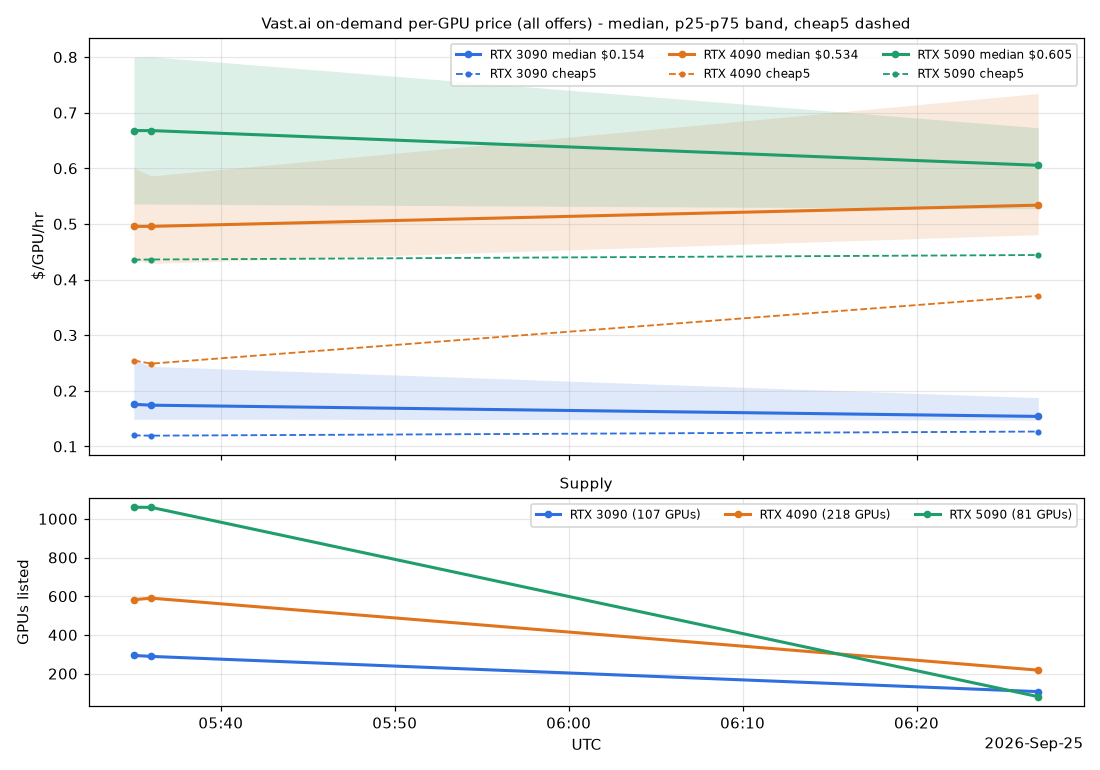
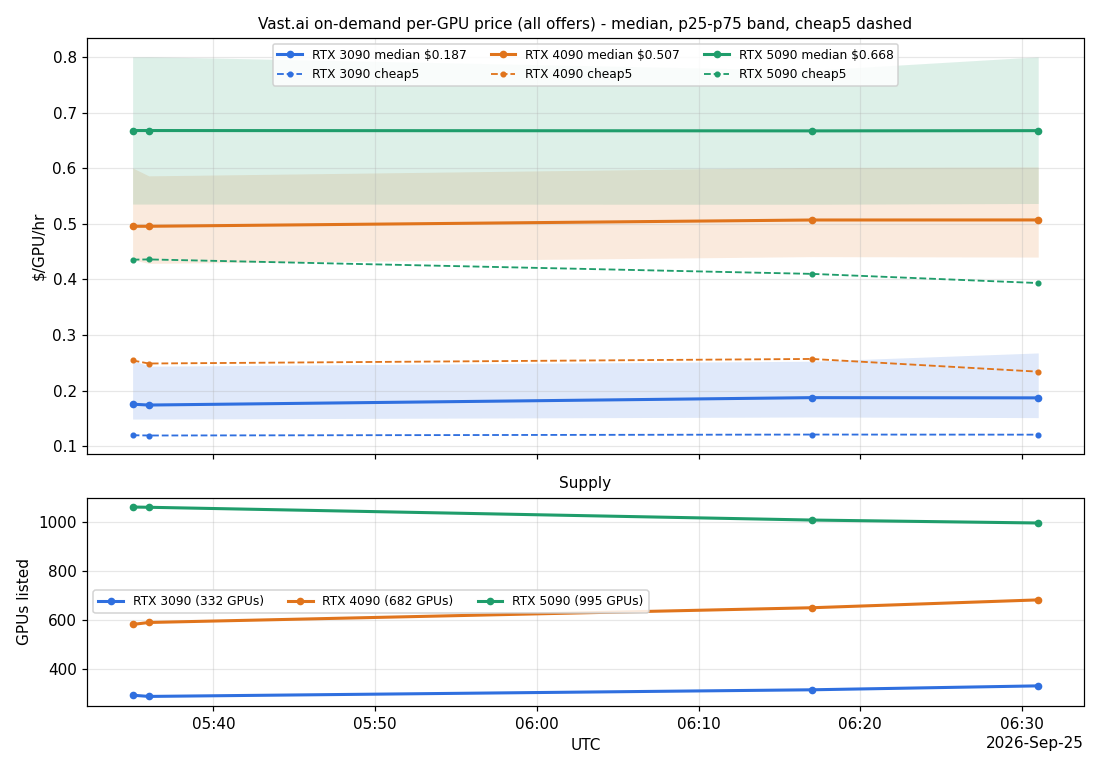
collector: use restricted API key; drop capped 06:27Z run

diff --git a/chart.html b/chart.html
@@ -71,7 +71,7 @@ h1 { font-size: 18px; margin: 4px 0 2px; }
     <div class="supply"><canvas id="supply"></canvas></div></div>
 </main>
 <script>
-const DATA = {"all":{"RTX 3090":[[1790314500000,0.1756,0.1489,0.2548,0.1198,294.0,149.0],[1790314560000,0.1741,0.1489,0.2439,0.1193,289.0,148.0],[1790317620000,0.1539,0.1474,0.1876,0.1267,107.0,64.0]],"RTX 4090":[[1790314500000,0.4956,0.4353,0.6005,0.2543,582.0,218.0],[1790314560000,0.4956,0.4289,0.5863,0.2488,590.0,219.0],[1790317620000,0.5337,0.4807,0.7345,0.3708,218.0,64.0]],"RTX 5090":[[1790314500000,0.6678,0.5356,0.8004,0.4356,1060.0,315.0],[1790314560000,0.6678,0.5356,0.8006,0.436,1059.0,317.0],[1790317620000,0.6054,0.5273,0.673,0.4441,81.0,64.0]]},"reliable":{"RTX 3090":[[1790314500000,0.1844,0.149,0.2691,0.1226,183.0,96.0],[1790314560000,0.1774,0.1489,0.2529,0.1197,174.0,93.0],[1790317620000,0.1611,0.1478,0.193,0.1267,76.0,47.0]],"RTX 4090":[[1790314500000,0.4934,0.4405,0.6079,0.3451,452.0,164.0],[1790314560000,0.4911,0.4306,0.6035,0.3335,454.0,162.0],[1790317620000,0.537,0.481,0.747,0.4342,169.0,50.0]],"RTX 5090":[[1790314500000,0.6689,0.5356,0.8649,0.4472,832.0,248.0],[1790314560000,0.6696,0.5352,0.8669,0.436,828.0,251.0],[1790317620000,0.6156,0.5344,0.6807,0.4471,74.0,57.0]]}};
+const DATA = {"all":{"RTX 3090":[[1790314500000,0.1756,0.1489,0.2548,0.1198,294.0,149.0],[1790314560000,0.1741,0.1489,0.2439,0.1193,289.0,148.0],[1790317020000,0.1874,0.1526,0.2529,0.121,316.0,158.0],[1790317860000,0.187,0.1515,0.2678,0.1208,332.0,169.0]],"RTX 4090":[[1790314500000,0.4956,0.4353,0.6005,0.2543,582.0,218.0],[1790314560000,0.4956,0.4289,0.5863,0.2488,590.0,219.0],[1790317020000,0.5069,0.441,0.6015,0.257,650.0,240.0],[1790317860000,0.507,0.4402,0.6022,0.2341,682.0,257.0]],"RTX 5090":[[1790314500000,0.6678,0.5356,0.8004,0.4356,1060.0,315.0],[1790314560000,0.6678,0.5356,0.8006,0.436,1059.0,317.0],[1790317020000,0.6672,0.5352,0.7763,0.41,1007.0,319.0],[1790317860000,0.6676,0.5366,0.8004,0.3935,995.0,310.0]]},"reliable":{"RTX 3090":[[1790314500000,0.1844,0.149,0.2691,0.1226,183.0,96.0],[1790314560000,0.1774,0.1489,0.2529,0.1197,174.0,93.0],[1790317020000,0.1889,0.1611,0.2674,0.1234,180.0,97.0],[1790317860000,0.1889,0.1611,0.3489,0.1208,207.0,111.0]],"RTX 4090":[[1790314500000,0.4934,0.4405,0.6079,0.3451,452.0,164.0],[1790314560000,0.4911,0.4306,0.6035,0.3335,454.0,162.0],[1790317020000,0.5085,0.4405,0.6607,0.3439,501.0,178.0],[1790317860000,0.5074,0.4334,0.6284,0.3123,527.0,197.0]],"RTX 5090":[[1790314500000,0.6689,0.5356,0.8649,0.4472,832.0,248.0],[1790314560000,0.6696,0.5352,0.8669,0.436,828.0,251.0],[1790317020000,0.6726,0.5356,0.8006,0.4242,803.0,255.0],[1790317860000,0.6788,0.5363,0.8669,0.4171,784.0,245.0]]}};
 const GPUS = ["RTX 3090", "RTX 4090", "RTX 5090"];
 const H = 3600e3;
 let subset = "all", rangeH = 168, priceChart = null, supplyChart = null;
@@ -186,7 +186,7 @@ wire("subset", v => subset = v);
 wire("range", v => rangeH = Number(v));
 const lt = latestT();
 document.getElementById("updated").textContent = lt
-  ? "Latest snapshot: " + new Date(lt).toISOString().slice(0, 16).replace("T", " ") + " UTC  (generated 2026-09-25 06:27 UTC)"
+  ? "Latest snapshot: " + new Date(lt).toISOString().slice(0, 16).replace("T", " ") + " UTC  (generated 2026-09-25 06:31 UTC)"
   : "No data yet.";
 matchMedia("(prefers-color-scheme: dark)").addEventListener("change", render);
 render();

diff --git a/collect.py b/collect.py
@@ -3,7 +3,11 @@
 Stdlib only. Appends long-format stats rows to data/prices.csv, one line per
 run to data/collect.log, and a compact raw snapshot to data/raw/YYYY-MM-DD.jsonl.gz.
 
-Exit codes: 0 ok, 2 network/API failure (nothing written to prices.csv).
+Exit codes: 0 ok, 2 network/API failure or capped unauthenticated result
+(nothing written to prices.csv).
+
+API key lookup: env VAST_API_KEY, then ~/.config/vastai/vast_api_key. Without a
+key Vast caps search at 64 offers; a keyless run that hits the cap is discarded.
 
 Test-only override: VPT_RESOLVE=<ip> makes console.vast.ai resolve to that IP
 (TLS SNI/Host stay console.vast.ai). Never used unless explicitly set.
@@ -24,6 +28,7 @@ HOST = "console.vast.ai"
 URL = f"https://{HOST}/api/v0/search/asks/"
 GPUS = ["RTX 3090", "RTX 4090", "RTX 5090"]
 RELIABLE_MIN = 0.98
+UNAUTH_CAP = 64  # Vast returns at most this many offers without an API key
 RETRIES = 3
 TIMEOUT = 30
 
@@ -57,6 +62,9 @@ def _install_test_resolve():
 
 
 def _api_key():
+    key = os.environ.get("VAST_API_KEY", "").strip()
+    if key:
+        return key
     try:
         key = KEY_PATH.read_text(encoding="utf-8").strip()
         return key or None
@@ -171,15 +179,27 @@ def main():
     _install_test_resolve()
     ts = dt.datetime.now(dt.timezone.utc).strftime("%Y-%m-%dT%H:%MZ")
 
+    has_key = _api_key() is not None
+    if not has_key:
+        log(f"{ts} WARN no API key (env VAST_API_KEY or {KEY_PATH}) - search capped at {UNAUTH_CAP} offers")
+
     results = {}
+    raw_counts = {}
     try:
         for gpu in GPUS:
-            results[gpu] = normalise(fetch_offers(gpu))
+            offers = fetch_offers(gpu)
+            raw_counts[gpu] = len(offers)
+            results[gpu] = normalise(offers)
     except DNSUnavailable:
         log(f"{ts} SKIP network/DNS unavailable - skipped")
         return 2
     except Exception as exc:  # noqa: BLE001
         log(f"{ts} FAIL {exc} - nothing written")
+        return 2
+
+    if not has_key and any(n == UNAUTH_CAP for n in raw_counts.values()):
+        counts = " ".join(f"{g.split()[-1]}={raw_counts[g]}" for g in GPUS)
+        log(f"{ts} SKIP unauthenticated result capped at {UNAUTH_CAP} ({counts}) - nothing written")
         return 2
 
     rows = []

diff --git a/README.md b/README.md
@@ -11,11 +11,11 @@ median, p75, p90, mean, `cheap5` (mean of the 5 cheapest), and a GPU-weighted me
 
 | File | What |
 |---|---|
-| `collect.py` | Queries the public Vast search API (stdlib only), appends 6 rows to `data/prices.csv`, logs one line to `data/collect.log`, keeps a raw per-offer snapshot in `data/raw/` (local only, gitignored). All-or-nothing: if any GPU query fails, nothing is written and it exits 2. |
+| `collect.py` | Queries the Vast search API (stdlib only; API key from env `VAST_API_KEY`, else `~/.config/vastai/vast_api_key`), appends 6 rows to `data/prices.csv`, logs one line to `data/collect.log`, keeps a raw per-offer snapshot in `data/raw/` (local only, gitignored). All-or-nothing: if any GPU query fails, nothing is written and it exits 2. |
 | `chart.py` | Renders `chart.html` (interactive) and `chart.png` (static, `all` subset). |
 | `run.cmd` | Runs collect then chart; output appended to `data/run.log`. |
-| `install_task.ps1` / `uninstall_task.ps1` | Windows Scheduled Task on/off. |
-| `.github/workflows/collect.yml` | Same job on GitHub Actions. |
+| `install_task.ps1` / `uninstall_task.ps1` | Windows Scheduled Task on/off. Optional fallback only; not installed. |
+| `.github/workflows/collect.yml` | The collector: hourly job on GitHub Actions. |
 
 ## Viewing
 
@@ -24,7 +24,11 @@ median $/GPU/hr with a p25-p75 band and a dashed cheap5 line; the bottom panel i
 The page loads Chart.js from cdn.jsdelivr.net, so it needs internet (see the VPN note below).
 `chart.png` is the offline/phone view.
 
-## Local schedule (Windows)
+## Local schedule (Windows) - fallback, not in use
+
+GitHub Actions is the only collector. The laptop Scheduled Task was uninstalled (2026-09-25);
+do not install it while Actions is running, or both will append rows and duplicate the series.
+The instructions below are kept only as a fallback if Actions is ever retired.
 
 ```
 powershell -ExecutionPolicy Bypass -File install_task.ps1
@@ -38,16 +42,17 @@ Remove with `uninstall_task.ps1`. Needs `python` (with matplotlib) on PATH.
 `network/DNS unavailable - skipped`, exit 2 and write no row, so the series simply has holes
 while the VPN is up (and while the laptop is off). The charts still re-render.
 
-## Switching to GitHub Actions (no gaps)
+## GitHub Actions (the collector)
 
-1. Create a **private** GitHub repo and push this one to it. No secrets are needed; the API is public.
-2. The workflow runs hourly at :17 UTC (plus a manual "Run workflow" button), and commits
+1. The workflow runs hourly at :17 UTC (plus a manual "Run workflow" button), and commits
    `data/prices.csv`, `data/collect.log`, `chart.html` and `chart.png` when they change.
-3. Uninstall the local task (`uninstall_task.ps1`) so the two do not both write to `prices.csv`,
-   and `git pull` to get the latest chart.
+2. It needs the repo secret **`VAST_API_KEY`**: a restricted, search-only Vast API key, passed to
+   `collect.py` as an env var. Without a key Vast caps search results at **64 offers**, so the
+   stats would describe a truncated sample. A keyless run logs a `WARN`; if any GPU comes back with
+   exactly 64 offers it logs `SKIP unauthenticated result capped at 64`, writes no rows and exits 2.
+3. The local Scheduled Task is not used; `git pull` to get the latest data and chart.
 
-GitHub's scheduled runs can be delayed by several minutes. Each run takes under a minute, so a
-private repo uses roughly 720 of the free 2,000 Actions minutes per month.
+GitHub's scheduled runs can be delayed by several minutes.
 
 ## Test-only override
 
